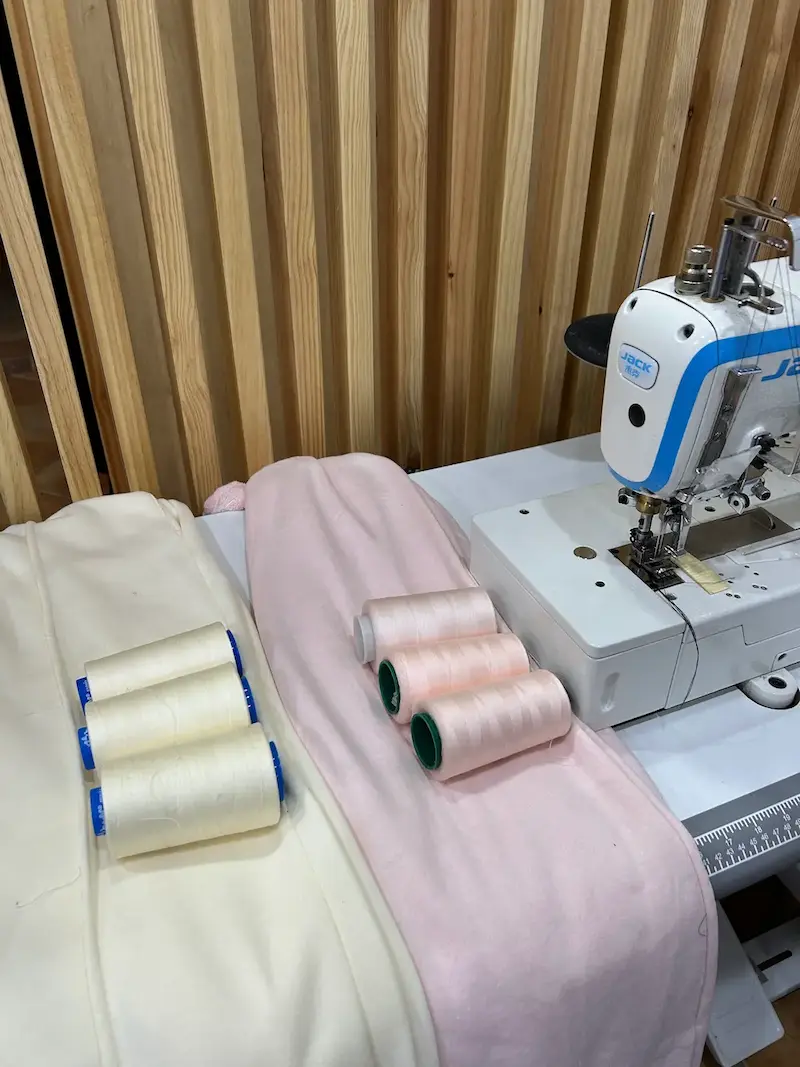
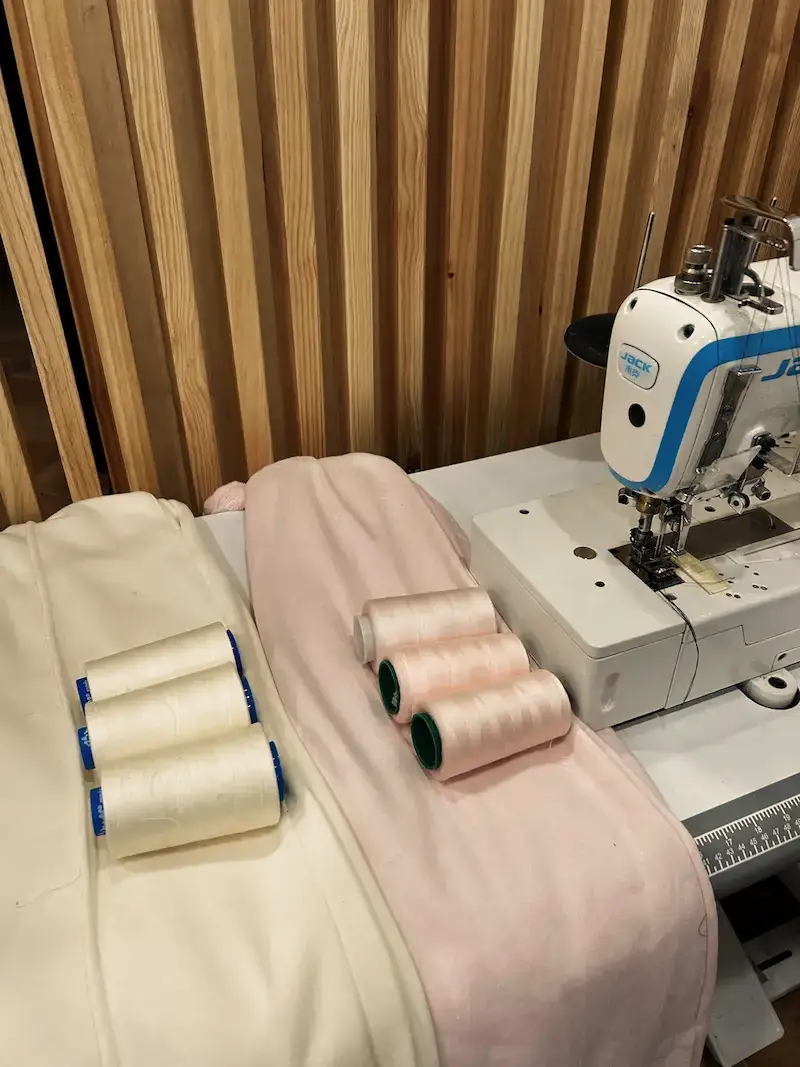
Se ajustan imagenes

diff --git a/index.html b/index.html
@@ -318,7 +318,7 @@
             <p>
               <a
                 class="link"
-                href="https://www.google.com/maps/place/Entre+Costuras+.+Arreglos+y+confecci%C3%B3n+de+ropa./@37.1858697,-3.6131048,17z/data=!4m8!3m7!1s0xd71fd75eedc413f:0x185beb1c06b03047!8m2!3d37.1858655!4d-3.6105299!9m1!1b1!16s%2Fg%2F11n10jbbcx?authuser=0&entry=ttu&g_ep=EgoyMDI2MTAyMC4wIKXMDSoASAFQAw%3D%3D"
+                href="https://maps.app.goo.gl/jprftumok6B4HtiG9"
                 target="_blank"
                 rel="noopener"
                 >Ver reseñas en Google</a
@@ -369,7 +369,8 @@
             </div>
             <p>
               “Una atención y lugar increíble. Los trabajadores muy serviciales
-              y las instalaciones a la altura de su buena confección.”
+              y las instalaciones a la altura de su buena confección. Me hicieron un arreglo muy bueno.
+              Ya va a ser mi lugar de confianza.”
             </p>
             <span class="source">Google Review</span>
           </div>

diff --git a/css/style.css b/css/style.css
@@ -1071,3 +1071,29 @@ html { scroll-padding-top: 80px; }
 button.btn { border: 0; cursor: pointer; font: inherit; font-weight: var(--font-weight-semibold); }
 
 .contact-card { display: flex; flex-direction: column; justify-content: center; }
+
+.grid { grid-template-columns: repeat(3, 1fr); }
+
+@media (max-width: 900px) {
+  .grid { grid-template-columns: repeat(2, 1fr); }
+}
+@media (max-width: 560px) {
+  .grid { grid-template-columns: 1fr; }
+}
+
+.about-image img {
+  border-radius: var(--radius-lg);
+  box-shadow: 18px 18px 0 var(--color-secondary), var(--shadow-md);
+  transition: transform var(--transition-normal);
+}
+#nosotros .about-image img {
+  box-shadow: -18px 18px 0 var(--color-secondary), var(--shadow-md);
+}
+.about-image:hover img { transform: translateY(-4px); }
+
+@media (max-width: 900px) {
+  .about-image img,
+  #nosotros .about-image img {
+    box-shadow: 10px 10px 0 var(--color-secondary), var(--shadow-sm);
+  }
+}
